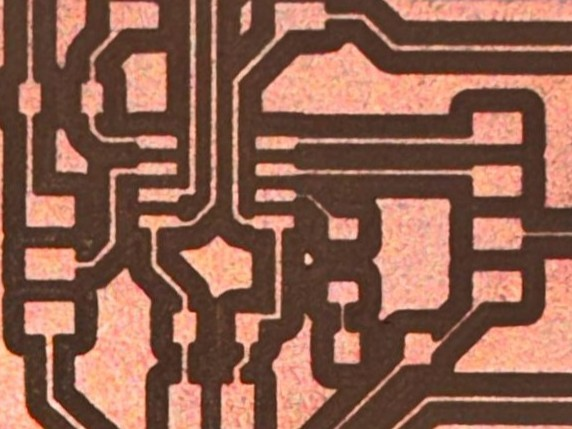
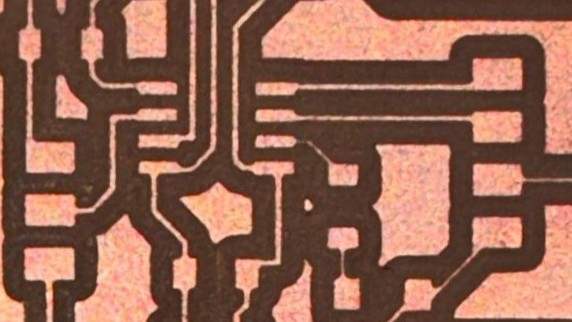
fabac mas mas

diff --git a/y2/fabacademy.html b/y2/fabacademy.html
@@ -102,25 +102,35 @@ A multimeter is used to measure voltage, resistance, and current, and it’s esp
 
 <h3 style="margin-bottom: 21px;margin-top: 21px;">electronics design</h3> 
 
-      <img src="../images/y2/term 2/facbacset.png" alt="front" width="100%"/>
+      <img style="margin-bottom: 21px;" src="../images/y2/term 2/facbacset.png" alt="front" width="100%"/>
 
       <p> The first assignment was to design a board that could be used to control a set of LEDs. The board was designed in KiCad.<br>
 <br>  
-      <img src="../images/y2/term 2/fabac4.png" alt="front" width="100%"/>
-      <img src="../images/y2/term 2/fabac5.png" alt="front" width="100%"/>
-      <img src="../images/y2/term 2/fabac6.png" alt="front" width="100%"/>
-      <img src="../images/y2/term 2/fabac7.png" alt="front" width="100%"/>
-      <img src="../images/y2/term 2/fabac8.png" alt="front" width="100%"/>
+      <img style="margin-bottom: 21px;" src="../images/y2/term 2/fabac4.png" alt="front" width="100%"/>
+
+      <p> starting from a simple example developed in class, each of us had the task of designing our own version.</p>
+<br>
+      <img style="margin-bottom: 21px;" src="../images/y2/term 2/fabac5.png" alt="front" width="100%"/>
+
+      <p> we had the chance to explore different sets and tricks to make our life easier in the production process.</p>
+<br>
+
+      <img style="margin-bottom: 21px;" src="../images/y2/term 2/fabac6.png" alt="front" width="100%"/>
+      <img style="margin-bottom: 21px;" src="../images/y2/term 2/fabac7.png" alt="front" width="100%"/>
+      
+      <p> the final result was a board that could be used to control a set of LEDs that was intended to have the function of a timer clock, and that could be produced in the lab.</p>
+<br>
+      <img style="margin-bottom: 21px;" src="../images/y2/term 2/fabac8.png" alt="front" width="100%"/>
 
 <h2 style="margin-bottom: 21px;margin-top: 21px;">electronics production</h2>
       <p> 
         <img style="margin-bottom: 21px;" src="../images/y2/term 2/elec production/pcb llucha cover.jpeg" alt="front" width="100%"/>
       </p> 
    
-      <img src="../images/y2/term 2/elec production/pcb llucha cover.jpeg" alt="front" width="100%"/>
-      <img src="../images/y2/term 2/elec production/pcb llucha cover.jpeg" alt="front" width="100%"/>
-      <img src="../images/y2/term 2/elec production/pcb llucha cover.jpeg" alt="front" width="100%"/>
-      <img src="../" alt="front" width="100%"/>
+      <img style="margin-bottom: 21px;" src="../images/y2/term 2/elec production/pcb llucha cover.jpeg" alt="front" width="100%"/>
+      <img style="margin-bottom: 21px;" src="../images/y2/term 2/elec production/pcb llucha cover.jpeg" alt="front" width="100%"/>
+      <img style="margin-bottom: 21px;" src="../images/y2/term 2/elec production/pcb llucha cover.jpeg" alt="front" width="100%"/>
+      <img style="margin-bottom: 21px;" src="../" alt="front" width="100%"/>
       <img src="../" alt="front" width="100%"/>
       <img src="../" alt="front" width="100%"/>
       